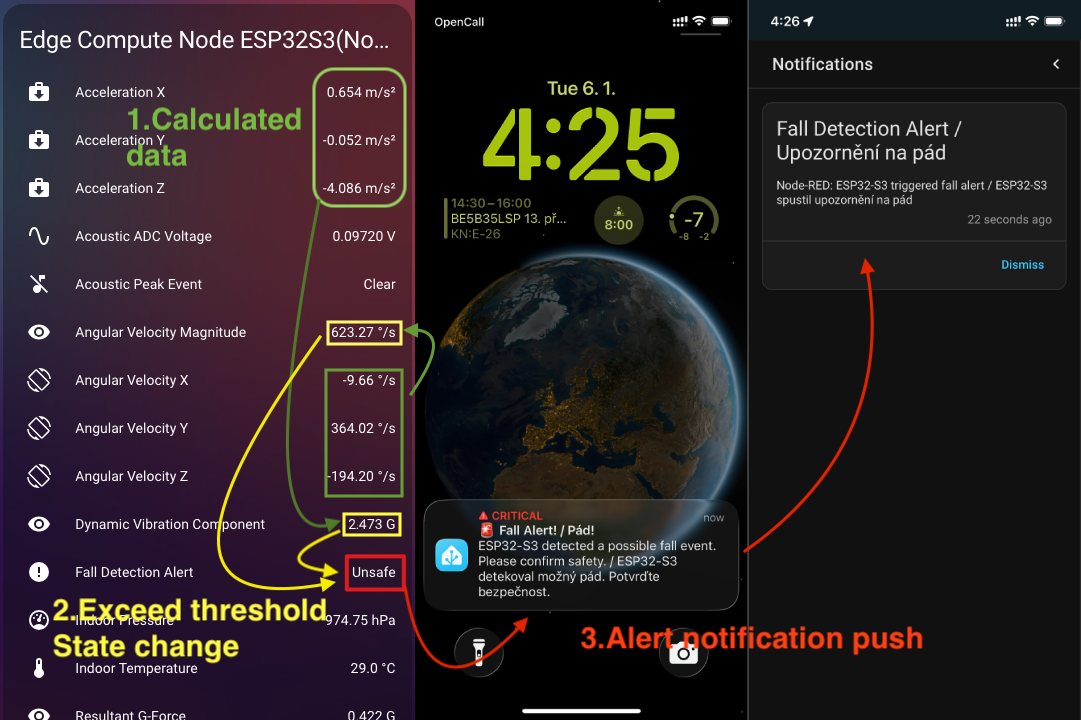
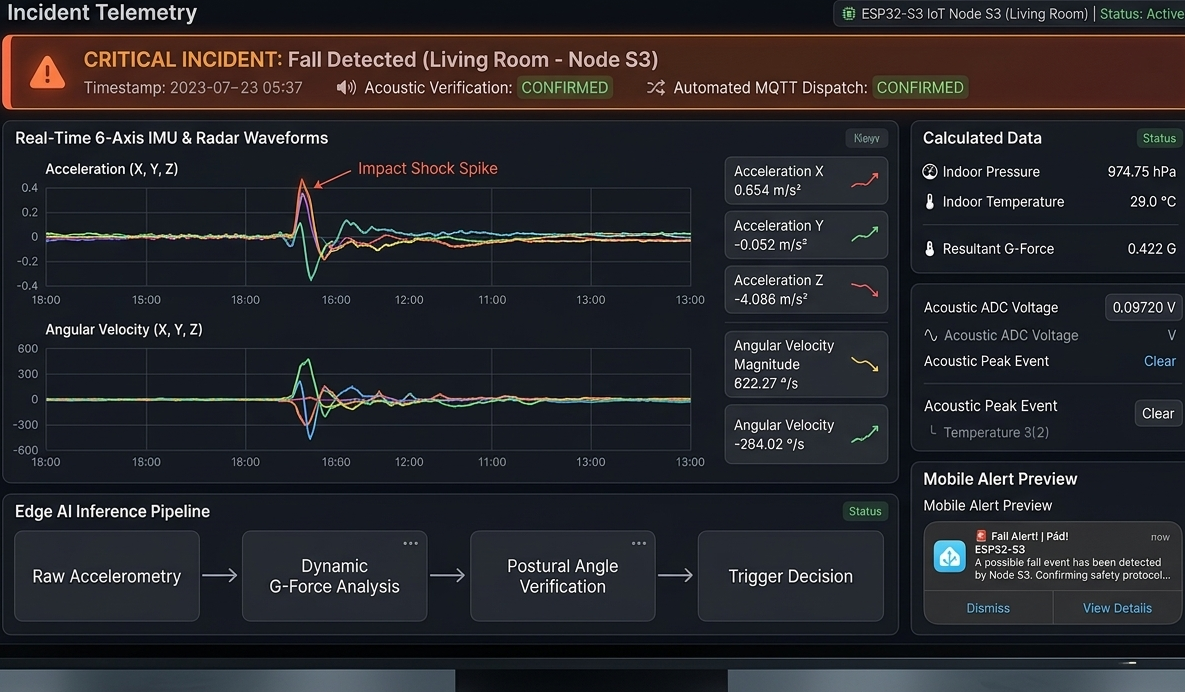
chore(assets): modernize system architecture, hardware schematics and edge fall detection visuals

diff --git a/README.md b/README.md
@@ -87,8 +87,18 @@ cd broker/emqx && docker compose up -d
 </div>
 
 <div align="center">
+  <img src="docs/assets/fall_detection.png" width="850" alt="Edge Computing Real-Time Fall Detection Pipeline">
+  <p><em>Edge computing validation — Real-time multi-stage fall detection pipeline with continuous telemetry waveform & incident alert telemetry</em></p>
+</div>
+
+<div align="center">
   <img src="docs/assets/esp32_wiring.png" width="850" alt="ESP32 Sensor Interface Circuit">
-  <p><em>Physical edge validation — ESP32 hardware wiring with sensor peripherals and hardware fall detection radar</em></p>
+  <p><em>Physical edge validation — ESP32 hardware wiring schematic with color sensor, gas detector, and status telemetry</em></p>
+</div>
+
+<div align="center">
+  <img src="docs/assets/esp32s3_wiring.png" width="850" alt="ESP32-S3 Edge Node Circuit Schematic">
+  <p><em>Edge intelligence node — ESP32-S3 hardware wiring schematic featuring MPU-6050 6-axis IMU, BMP280, and acoustic peak detector</em></p>
 </div>
 
 ## Documentation

diff --git a/README.zh-CN.md b/README.zh-CN.md
@@ -87,8 +87,18 @@ cd broker/emqx && docker compose up -d
 </div>
 
 <div align="center">
+  <img src="docs/assets/fall_detection.png" width="850" alt="端侧实时跌倒检测流水线">
+  <p><em>端侧边缘智能验证 — 六轴 IMU 加速度与角速度多阶段跌倒识别流水线及告警联动</em></p>
+</div>
+
+<div align="center">
   <img src="docs/assets/esp32_wiring.png" width="850" alt="ESP32 传感器外设引脚接线图">
-  <p><em>物理边缘硬件验证 — ESP32 传感器接线拓扑与毫米波雷达跌倒检测硬件电路</em></p>
+  <p><em>物理边缘硬件验证 — ESP32 传感器硬件电路接线图（TCS34725 颜色识别、MQ-2 烟雾检测与状态指示）</em></p>
+</div>
+
+<div align="center">
+  <img src="docs/assets/esp32s3_wiring.png" width="850" alt="ESP32-S3 边缘计算节点接线图">
+  <p><em>边缘计算核心节点 — ESP32-S3 硬件接线原理图（MPU-6050 六轴惯导、BMP280 环境监测与 KY-037 声音采样）</em></p>
 </div>
 
 ## 文档索引
